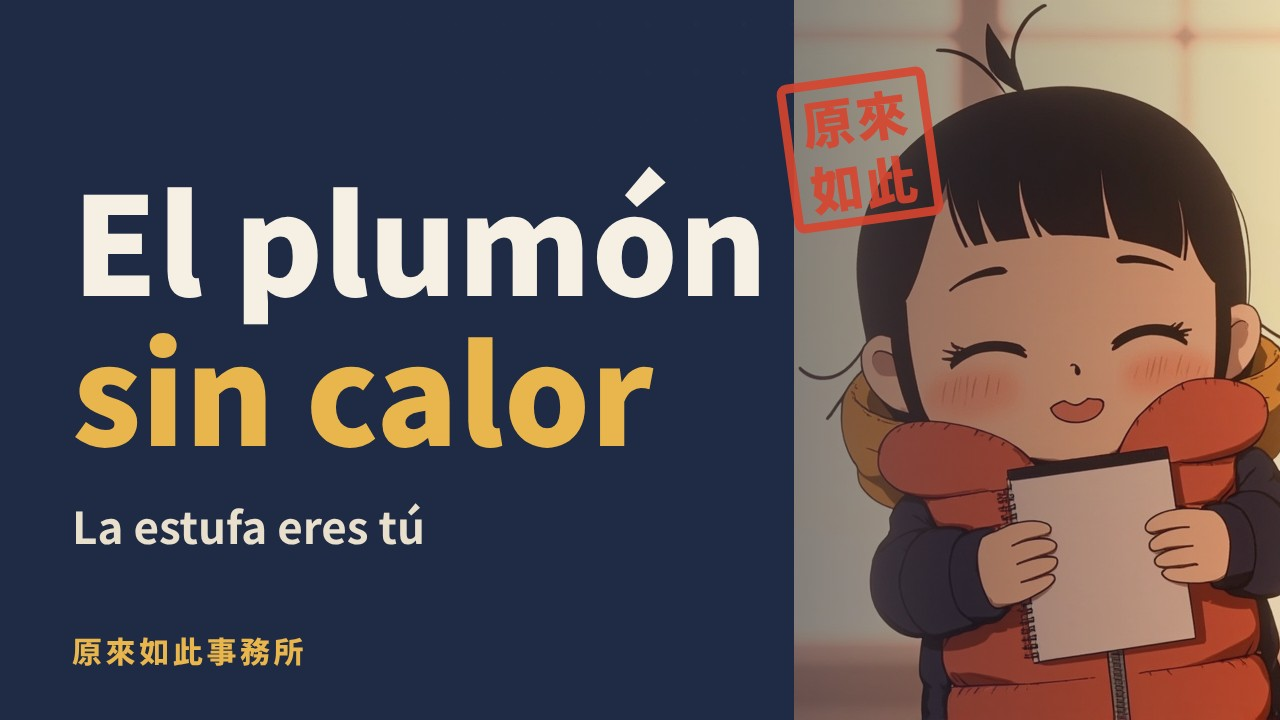
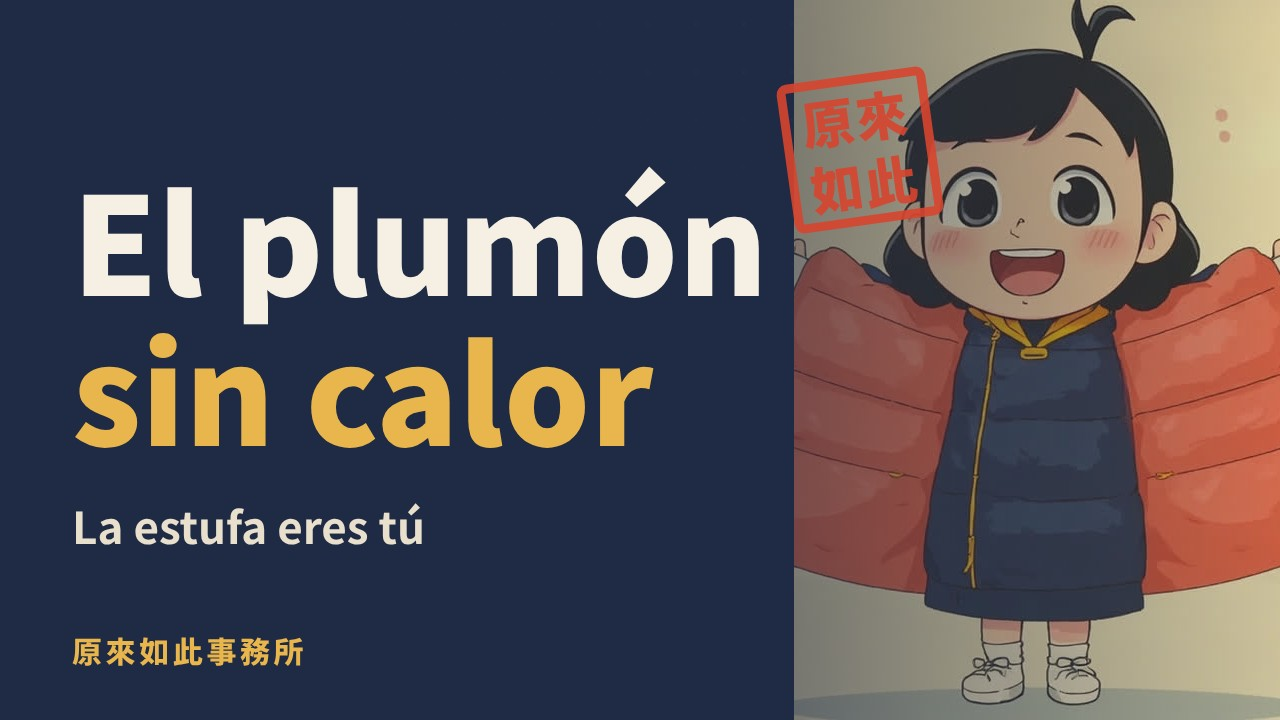
P05 thumbnail: kid-wall instead of kid-hug-done (that shot had a notebook)
Claude-Session: https://claude.ai/code/session_018EYovHhG7uMki2Ri6NGbqt

Changed region(s): [[0.5938, 0.0, 1.0, 1.0], [0.9062, 0.0306, 0.9375, 0.0611]]

diff --git a/docs/videos/sothatswhy-p05-down-jacket/build_scenes.py b/docs/videos/sothatswhy-p05-down-jacket/build_scenes.py
@@ -362,7 +362,7 @@ doc = {
                        "本集插圖由 AI 生成。功率與倍數都是教科書的典型值或大約的數量級；每個說法的出處列在下方參考資料。\n\n資料截至 " + CHECKED,
         "tags": ["羽絨衣", "保暖", "為什麼穿羽絨衣會暖", "熱傳導", "保溫瓶", "風寒", "科普", "原來如此事務所"],
         "video_id": "BirHcIAlfz4"},
-    "thumbnail": {"template": "thumb", "data": {"headline": "羽絨衣\n**不會發熱**", "sub": "暖爐其實是你自己", "shot": "kid-hug-done", "subject": "right"}},
+    "thumbnail": {"template": "thumb", "data": {"headline": "羽絨衣\n**不會發熱**", "sub": "暖爐其實是你自己", "shot": "kid-wall", "subject": "right"}},
     "sources": [
         {"title": "OpenStax College Physics 2e: 7.8 Work, Energy, and Power in Humans", "url": "https://openstax.org/books/college-physics-2e/pages/7-8-work-energy-and-power-in-humans", "checked_on": CHECKED},
         {"title": "OpenStax College Physics 2e: 13.1 Temperature", "url": "https://openstax.org/books/college-physics-2e/pages/13-1-temperature", "checked_on": CHECKED},
